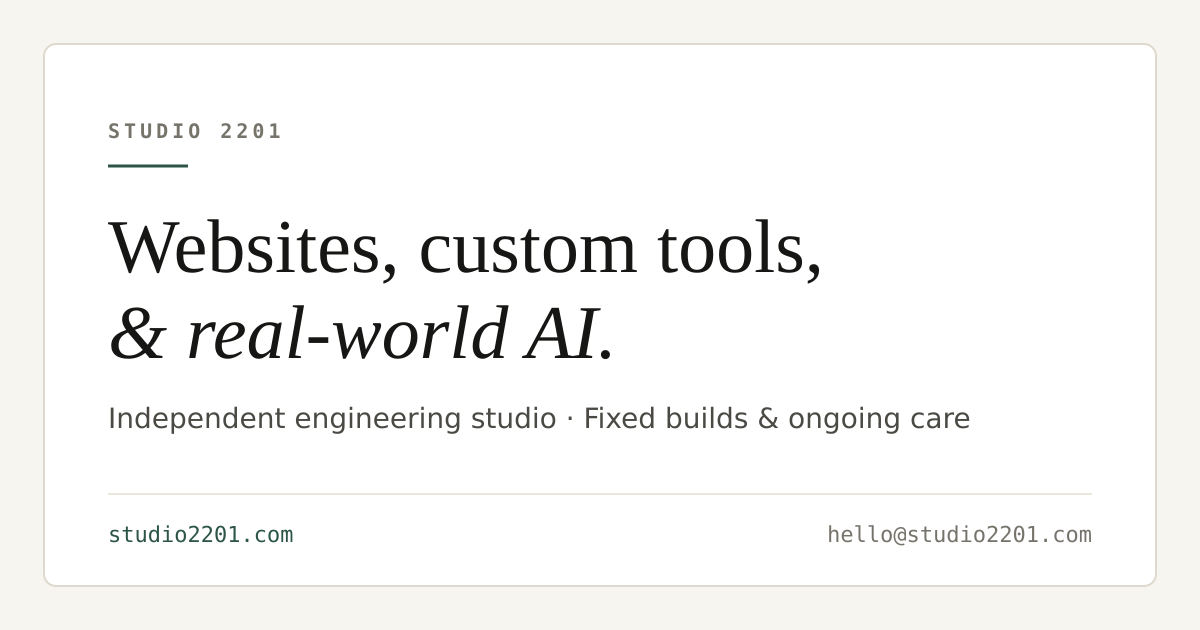
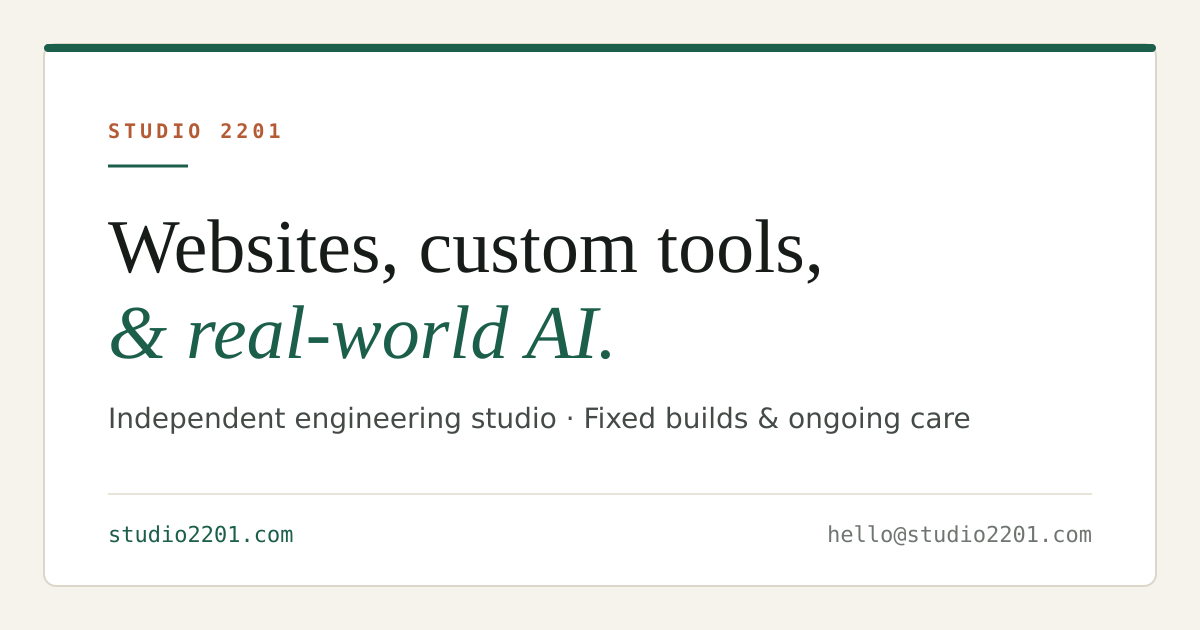
Apply Pacific Northwest Pine & Copper palette to Warm Light & Charcoal themes

diff --git a/agency.css b/agency.css
@@ -1,36 +1,40 @@
-/* studio2201 Executive Two-Theme Agency Styles (<= 256 LOC) */
-html[data-theme="light"] { background: #f7f5f0; }
-html[data-theme="dark"] { background: #111214; }
+/* studio2201 Pacific Northwest Pine & Copper Two-Theme Styles (<= 256 LOC) */
+html[data-theme="light"] { background: #f6f3ec; }
+html[data-theme="dark"] { background: #121514; }
 
 body.agency,
 html[data-theme="light"] body.agency {
-  --bg: #f7f5f0; --card: #ffffff; --card-alt: #f1eee7;
-  --line: #ded9ce; --line-soft: #eae6dc;
-  --ink: #161614; --ink-2: #4a4944; --muted: #76736b;
-  --primary: #161614; --accent: #2c5545; --btn-ink: #f7f5f0;
-  background: var(--bg); color: var(--ink);
+  --bg: #f6f3ec; --card: #ffffff; --card-alt: #efebe2;
+  --line: #ddd6c8; --line-soft: #eae4d8;
+  --ink: #171c19; --ink-2: #444b46; --muted: #6f7570;
+  --primary: #1b5e4a; --primary-hover: #144939; --primary-tint: rgba(27, 94, 74, 0.08);
+  --accent: #1b5e4a; --copper: #b45b36; --btn-ink: #f6f3ec;
+  --card-shadow: rgba(23, 28, 25, 0.07);
+  background: var(--bg); color: var(--ink); border-top: 3px solid var(--primary);
 }
 html[data-theme="dark"] body.agency {
-  --bg: #111214; --card: #181a1d; --card-alt: #1f2227;
-  --line: #2a2d33; --line-soft: #202329;
-  --ink: #f2f1ed; --ink-2: #b4b3ad; --muted: #828388;
-  --primary: #f2f1ed; --accent: #9bb5a8; --btn-ink: #111214;
+  --bg: #121514; --card: #1a1e1d; --card-alt: #212624;
+  --line: #2d3432; --line-soft: #242a28;
+  --ink: #f1efe9; --ink-2: #b8bdb9; --muted: #828c87;
+  --primary: #348c70; --primary-hover: #3ea081; --primary-tint: rgba(52, 140, 112, 0.14);
+  --accent: #5cb597; --copper: #d4825c; --btn-ink: #0e1412;
+  --card-shadow: rgba(0, 0, 0, 0.32);
 }
 
 body.agency::before { display: none; }
-body.agency h1 em { color: var(--ink); font-style: italic; }
+body.agency h1 em { color: var(--primary); font-style: italic; }
 
 body.agency .eyebrow,
 body.agency .eyebrow.num {
   font-family: 'JetBrains Mono', monospace; font-size: 11px; font-weight: 500;
-  letter-spacing: 0.14em; text-transform: uppercase; color: var(--muted);
+  letter-spacing: 0.14em; text-transform: uppercase; color: var(--copper);
   background: transparent; border: 0; border-radius: 0; padding: 0; margin-bottom: 14px;
 }
 
 body.agency .btn.primary { background: var(--primary); color: var(--btn-ink); border-color: var(--primary); }
-body.agency .btn.primary:hover { transform: translateY(-1px); opacity: 0.9; box-shadow: none; }
+body.agency .btn.primary:hover { transform: translateY(-1px); background: var(--primary-hover); border-color: var(--primary-hover); box-shadow: none; }
 body.agency .btn.ghost { background: transparent; color: var(--ink); border: 1px solid var(--line); }
-body.agency .btn.ghost:hover { background: var(--card-alt); border-color: var(--ink); color: var(--ink); box-shadow: none; }
+body.agency .btn.ghost:hover { background: var(--primary-tint); border-color: var(--primary); color: var(--primary); box-shadow: none; }
 
 .agency-nav {
   display: flex; align-items: center; justify-content: space-between; flex-wrap: wrap; gap: 14px;
@@ -42,20 +46,20 @@ body.agency .btn.ghost:hover { background: var(--card-alt); border-color: var(--
 }
 .agency-links { display: flex; align-items: center; flex-wrap: wrap; gap: 18px; }
 .agency-links a { font-size: 14px; font-weight: 500; color: var(--ink-2); text-decoration: none; transition: color 150ms ease; }
-.agency-links a:hover { color: var(--ink); }
+.agency-links a:hover { color: var(--primary); }
 .agency-links a.nav-hire,
 .top-nav .nav-pills a.nav-cta {
   background: var(--primary); color: var(--btn-ink); font-weight: 600; padding: 7px 14px; border-radius: 7px;
 }
 .agency-links a.nav-hire:hover,
-.top-nav .nav-pills a.nav-cta:hover { color: var(--btn-ink); opacity: 0.9; box-shadow: none; }
+.top-nav .nav-pills a.nav-cta:hover { background: var(--primary-hover); color: var(--btn-ink); box-shadow: none; }
 
 .theme-toggle {
   font-family: 'JetBrains Mono', monospace; font-size: 11.5px; color: var(--ink-2);
   background: transparent; border: 1px solid var(--line); border-radius: 999px;
   padding: 5px 11px; cursor: pointer; transition: border-color 150ms ease, color 150ms ease;
 }
-.theme-toggle:hover { border-color: var(--ink); color: var(--ink); }
+.theme-toggle:hover { border-color: var(--primary); color: var(--primary); }
 
 .hero-minimal { padding: 18px 0 10px; margin-bottom: 64px; }
 .hero-minimal h1 { max-width: 17ch; }
@@ -63,7 +67,7 @@ body.agency .btn.ghost:hover { background: var(--card-alt); border-color: var(--
 .grid-2 { display: grid; grid-template-columns: repeat(2, minmax(0, 1fr)); gap: 16px; margin-top: 22px; }
 .meta-label {
   font-family: 'JetBrains Mono', monospace; font-size: 11px; font-weight: 500;
-  letter-spacing: 0.08em; text-transform: uppercase; color: var(--muted);
+  letter-spacing: 0.08em; text-transform: uppercase; color: var(--copper);
 }
 
 body.agency .product,
@@ -71,10 +75,13 @@ body.agency .product,
   display: flex; flex-direction: column; justify-content: space-between; gap: 14px;
   background: var(--card); border: 1px solid var(--line); border-radius: 12px;
   padding: 24px; text-decoration: none; color: inherit;
-  transition: transform 160ms ease, border-color 160ms ease;
+  transition: transform 160ms ease, border-color 160ms ease, box-shadow 160ms ease;
 }
 body.agency .product:hover,
-.work-card:hover { transform: translateY(-2px); border-color: var(--ink); box-shadow: none; }
+.work-card:hover {
+  transform: translateY(-2px); border-color: var(--primary);
+  box-shadow: 0 10px 26px var(--card-shadow);
+}
 body.agency .product h3,
 .work-card h3 { margin: 8px 0; font-size: 21px; }
 body.agency .product-body,
@@ -93,15 +100,16 @@ body.agency .more {
 .pipeline-step p { font-size: 14.5px; color: var(--ink-2); line-height: 1.6; }
 
 .outcome-note {
-  margin-top: 16px; padding: 18px 22px; background: var(--card);
-  border: 1px solid var(--line); border-left: 3px solid var(--accent);
+  margin-top: 16px; padding: 18px 22px; background: var(--primary-tint);
+  border: 1px solid var(--line); border-left: 3px solid var(--primary);
   border-radius: 10px; font-size: 14.5px; color: var(--ink-2); line-height: 1.6;
 }
 .outcome-note strong { color: var(--ink); }
 
 .cta-band {
   display: flex; align-items: center; justify-content: space-between; flex-wrap: wrap; gap: 16px;
-  padding: 26px 28px; background: var(--card); border: 1px solid var(--line); border-radius: 12px;
+  padding: 26px 28px; background: var(--card); border: 1px solid var(--line);
+  border-top: 2px solid var(--copper); border-radius: 12px;
 }
 .cta-band h2 { margin-bottom: 4px; font-size: 26px; }
 .cta-band p { font-size: 14.5px; color: var(--ink-2); }
@@ -131,7 +139,7 @@ body.agency .more {
   color: var(--ink); background: var(--card); border: 1px solid var(--line);
   border-radius: 6px; padding: 5px 10px; cursor: pointer;
 }
-.mini-btn:hover { border-color: var(--ink); }
+.mini-btn:hover { border-color: var(--primary); color: var(--primary); }
 
 .inquiry-form { display: grid; gap: 14px; }
 .field { display: grid; gap: 6px; }
@@ -148,16 +156,16 @@ body.agency .more {
 }
 .field input:focus,
 .field select:focus,
-.field textarea:focus { border-color: var(--accent); }
+.field textarea:focus { border-color: var(--primary); }
 .field textarea { resize: vertical; min-height: 110px; }
 .inquiry-form .btn { cursor: pointer; justify-content: center; }
 
 .form-status {
   display: none; padding: 12px 14px; border-radius: 8px; font-size: 13.5px; line-height: 1.5;
-  background: var(--card-alt); border: 1px solid var(--line); border-left: 3px solid var(--accent); color: var(--ink);
+  background: var(--primary-tint); border: 1px solid var(--line); border-left: 3px solid var(--primary); color: var(--ink);
 }
 .form-status.visible { display: grid; gap: 10px; }
-.form-status.err { border-left-color: #b54545; }
+.form-status.err { border-left-color: var(--copper); }
 
 body.agency .foot { border-top-color: var(--line); color: var(--muted); }
 body.agency .foot a { color: var(--accent); }

diff --git a/ai.html b/ai.html
@@ -4,7 +4,7 @@
 <meta charset="UTF-8" />
 <meta name="viewport" content="width=device-width, initial-scale=1.0" />
 <meta name="description" content="Real-World AI by studio2201 — connecting AI to physical hardware, diagnostic buses, live telemetry, and automated external sentinels." />
-<meta name="theme-color" content="#f7f5f0" />
+<meta name="theme-color" content="#f6f3ec" />
 <title>Real-World AI — Hardware, Telemetry &amp; Automated Sentinels · studio2201</title>
 <link rel="canonical" href="https://studio2201.com/ai" />
 <meta property="og:site_name" content="studio2201" />

diff --git a/index.html b/index.html
@@ -4,7 +4,7 @@
 <meta charset="UTF-8" />
 <meta name="viewport" content="width=device-width, initial-scale=1.0" />
 <meta name="description" content="studio2201 — Independent engineering studio for custom websites, software tools, and real-world AI integrations." />
-<meta name="theme-color" content="#f7f5f0" />
+<meta name="theme-color" content="#f6f3ec" />
 <title>studio2201 — Websites, Custom Tools &amp; Real-World AI</title>
 <link rel="canonical" href="https://studio2201.com/" />
 <meta property="og:site_name" content="studio2201" />

diff --git a/theme.js b/theme.js
@@ -1,6 +1,6 @@
 (function () {
   var KEY = "studio2201_agency_theme";
-  var COLORS = { light: "#f7f5f0", dark: "#111214" };
+  var COLORS = { light: "#f6f3ec", dark: "#121514" };
 
   function getInitial() {
     try {
